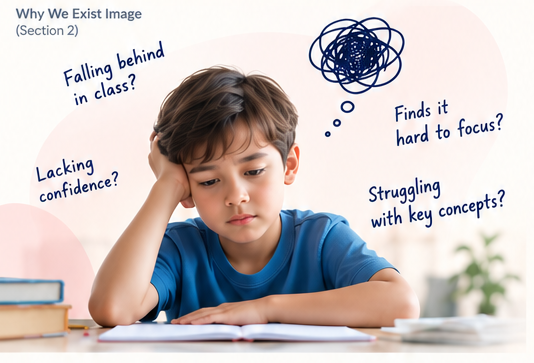
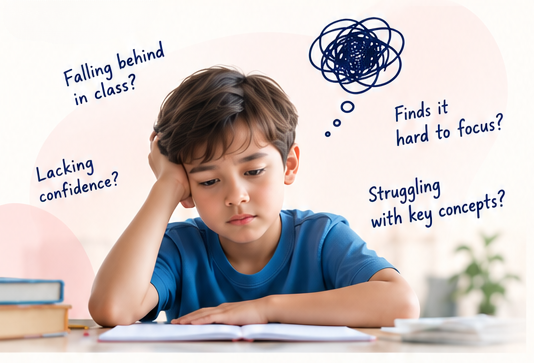
update changes and hero image display

Changed region(s): [[0.03, 0.0, 0.2697, 0.1212]]

diff --git a/resources/views/static/modules/about_us/about_us.blade.php b/resources/views/static/modules/about_us/about_us.blade.php
@@ -438,11 +438,11 @@ $title = 'About Us';
 		--abt-hand: 'Caveat', cursive;
 	}
 
-	h2.abt-serif,
-	.abt-serif {
-		font-family: 'Playfair Display', Georgia, serif !important;
+	html,
+	body {
+		max-width: 100%;
+		overflow-x: hidden;
 	}
-
 	.about-page {
 		background-color: #fff;
 	}
@@ -518,7 +518,7 @@ $title = 'About Us';
 	.abt-hero {
 		position: relative;
 		padding: 2%;
-		background-image: url('../assets/images/about/hero.png');
+		background-image: url("{{ public_asset('assets/images/about/hero.png') }}");
 		background-repeat: no-repeat;
 		background-size: 60% 100%;
 		background-position: right 1%;
@@ -1039,7 +1039,6 @@ $title = 'About Us';
 	}
 
 	.abt-cta-title {
-		font-family: 'Playfair Display', Georgia, serif !important;
 		font-size: 1.5rem;
 		font-weight: 700;
 		margin-bottom: 8px;
